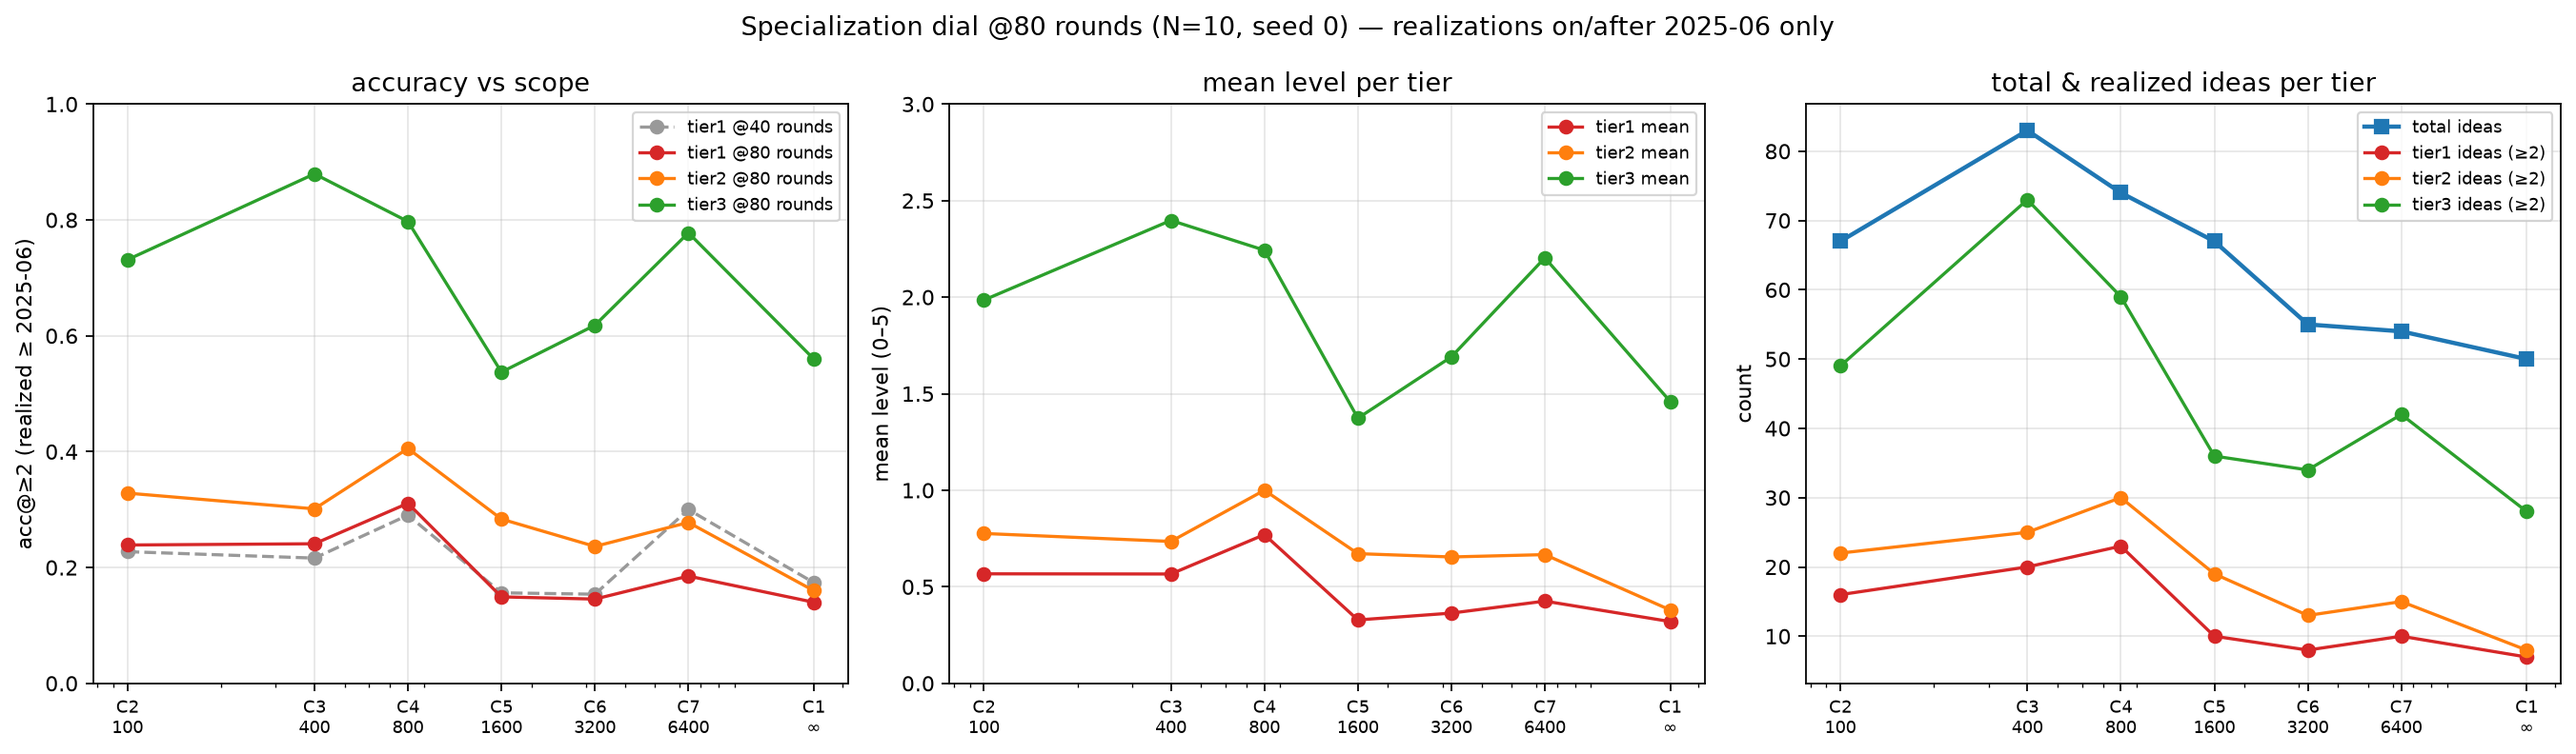
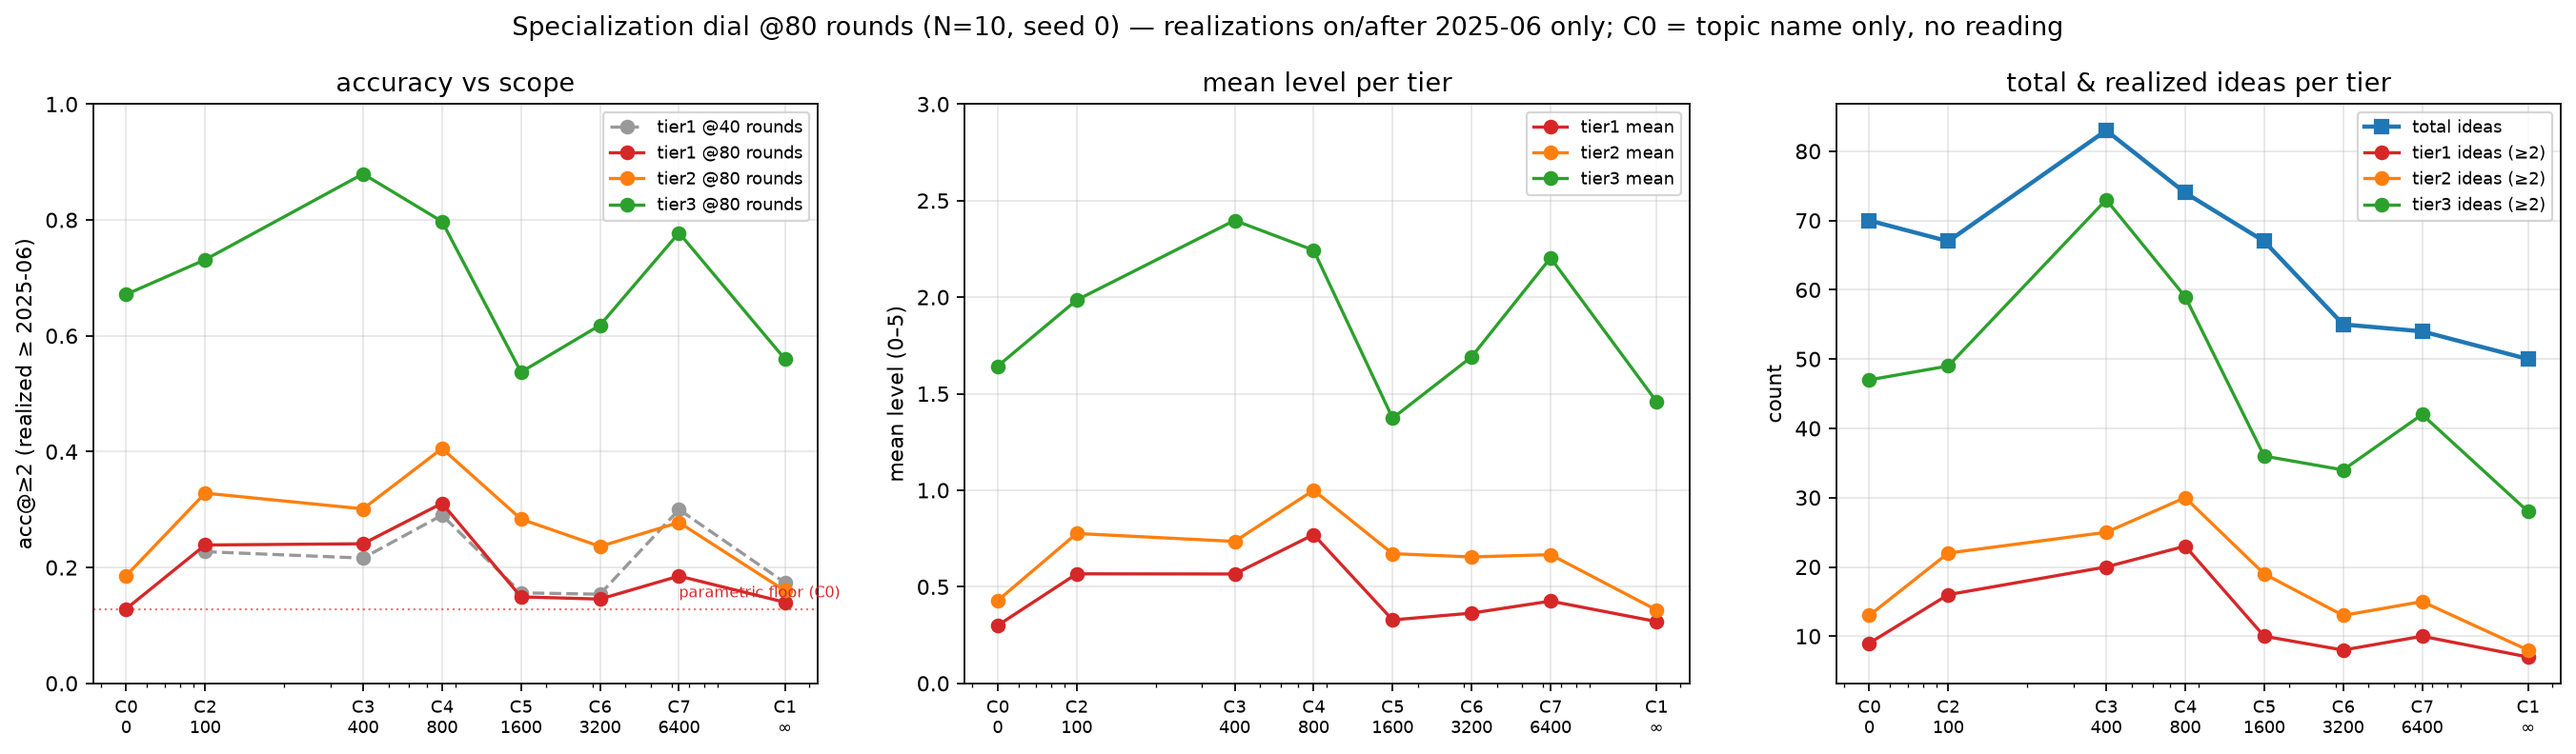
paper: C0 (m=0, topic-only) endpoint — both dial ends sit on the parametric floor

diff --git a/paper/main.tex b/paper/main.tex
@@ -41,8 +41,10 @@ matched at level $\geq 2$, ``same specific problem''). On a
 of corpus papers an agent is allowed to read, from 100 up to the whole
 corpus. We find (i) an inverted-U in anticipation accuracy over reading
 scope, peaking at 800 papers---a coherent sub-area, not one topic---at
-tier-1 accuracy 31\% vs.\ 14\% for unrestricted generalists, with the
-whole narrow band (100--800) well ahead of broad scopes; (ii) idea
+tier-1 accuracy 31\%, with the whole narrow band (100--800) well ahead
+of broad scopes, and \emph{both} dial endpoints on the parametric
+floor: agents reading nothing (13\%) and unrestricted generalists
+reading anything (14\%) are indistinguishable; (ii) idea
 production peaks at a mid-narrow scope and falls as reading widens; (iii) team size is a pure throughput
 knob: per-idea accuracy is flat from 10 to 150 agents while absolute hits
 scale linearly, because agents are effectively independent---across 10{,}300
@@ -116,7 +118,10 @@ per-agent interaction depth.
   narrow scopes would starve agents of recombination material did not
   materialize---but the narrow end's advantage over the peak appears
   only under memory-contaminated scoring, not under the guarded
-  metric.
+  metric. Both endpoints of the dial sit on the \emph{parametric
+  floor}: agents that read nothing (topic name only, 13\%) and
+  agents that may read everything (14\%) are indistinguishable---
+  reading pays only when it is narrow.
 \item \textbf{Quantity peaks at mid-narrow scope
   (Sec.~\ref{sec:dial}).} Scoped readers commit to ideas sooner and
   produce more of them (83 at $m{=}400$ vs.\ 50 for generalists over
@@ -226,9 +231,14 @@ Reading, searching, jumping, \emph{and citing} are confined to this
 region---citing means having read---while the content of generated ideas
 is unconstrained. We sweep $m \in \{100, 400, 800, 1600, 3200, 6400\}$
 (conditions C2--C7, numbered by ascending scope); unrestricted
-generalists are C1 ($m=\infty$). All
-conditions use $N{=}10$ agents, 80 rounds, and the same seed, so topic
-draws are identical across the sweep and only the radius varies.
+generalists are C1 ($m=\infty$), and a zero endpoint C0 gives each
+agent ONLY its topic name---no reading, no navigation, direct
+topic-conditioned generation (7 ideas per agent, each prompted to
+differ from the agent's previous ones)---measuring what parametric
+knowledge alone achieves. All
+conditions use $N{=}10$ agents, 80 rounds ($\leq$7 for C0), and the
+same seed, so topic draws are identical across the sweep and only the
+radius varies.
 
 Because topics vary in size (natural partition: median 228 papers, range
 44--1096), an $m=800$ region is \emph{not} one topic: measured own-topic
@@ -277,10 +287,12 @@ recorded in the released verdicts.
 \begin{table}[t]
 \caption{The specialization dial: $N{=}10$ agents, 80 rounds, one seed.
 Read scope $m$ is the number of corpus papers each agent may read;
-writes are always free. Only realizations published on/after 2025-06-01
-count (Sec.~\ref{sec:eval}). Each tier cell reports acc@$\geq$2, the
-number of realized ideas (level $\geq 2$, in parentheses), and the mean
-best realization level.}
+writes are always free. C0 is the zero endpoint: agents receive ONLY
+their topic name and generate with no reading of any kind---the
+parametric-ideation floor. Only realizations published on/after
+2025-06-01 count (Sec.~\ref{sec:eval}). Each tier cell reports
+acc@$\geq$2, the number of realized ideas (level $\geq 2$, in
+parentheses), and the mean best realization level.}
 \label{tab:dial}
 \begin{center}\small
 \begin{tabular}{lrrccc}
@@ -288,6 +300,7 @@ best realization level.}
  & \textbf{scope $m$} & \textbf{ideas} & \textbf{tier-1 acc (hits) / mean} &
  \textbf{tier-2 acc / mean} & \textbf{tier-3 acc / mean} \\
 \midrule
+C0 & 0 (topic name only) & 70 & 13\% (9) / 0.30 & 19\% (13) / 0.43 & 67\% (47) / 1.64 \\
 C2 & 100   & 67 & 24\% (16) / 0.57 & 33\% (22) / 0.78 & 73\% (49) / 1.99 \\
 C3 & 400   & \textbf{83} & 24\% (20) / 0.57 & 30\% (25) / 0.73 & \textbf{88\% (73)} / \textbf{2.40} \\
 C4 & 800   & 74 & \textbf{31\% (23) / 0.77} & \textbf{41\% (30) / 1.00} & 80\% (59) / 2.24 \\
@@ -329,6 +342,15 @@ pre-registered fear of material starvation at the narrow end.
 a caution documented in Appendix~\ref{app:probes}.) Broad scopes
 underperform throughout (unfocused wandering; a semantically diffuse
 topic region produced an agent with zero output).
+
+\textbf{Both ends of the dial sit on the parametric floor.} The zero
+endpoint C0---agents given only their topic name, generating from
+parametric knowledge alone---scores 13\%, statistically identical to
+the unrestricted generalists' 14\%. Reading the \emph{entire} corpus
+adds nothing over reading nothing; only situated, narrow reading
+does, roughly doubling the floor at the $m{=}800$ peak. Every
+condition in this paper should be read against this 13\% zero point:
+it is what the underlying model gives away for free.
 
 \textbf{Constraint beats freedom everywhere.} Every scoped condition
 matches or beats the unrestricted generalists on every tier, by rate
@@ -855,12 +877,16 @@ earliest month at which no probe format shows above-guessing knowledge.
 Without this window, contamination is material---64\% of face-value
 tier-1 hits fall in 2024-10 to 2025-08, and the no-search ablation,
 which forces agents onto parametric knowledge, loses its hits fastest
-when the window is applied (Sec.~\ref{sec:noedges}). Two residual
-risks remain: the window is behavioral evidence, not a provider
-guarantee, and a paper published in-window may have circulated as a
-preprint earlier; both bias reported accuracies in opposite directions
-and neither affects between-condition comparisons, which all use the
-same window.
+when the window is applied (Sec.~\ref{sec:noedges}). The topic-only condition C0 closes the loop behaviorally: generating
+from parametric knowledge alone scores 20\% at face value but 13\%
+under the window---the residue is the model's genuine ability to
+propose realizable ideas from priors, and it is exactly this floor
+that situated reading must (and, when narrow, does) exceed. Two
+residual risks remain: the window is behavioral evidence, not a
+provider guarantee, and a paper published in-window may have
+circulated as a preprint earlier; both bias reported accuracies in
+opposite directions and neither affects between-condition comparisons,
+which all use the same window.
 
 \subsection{Case studies: anticipations and their realizations}
 \label{app:cases}
